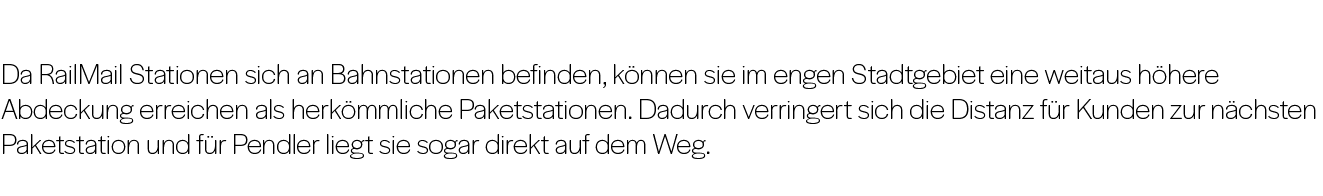
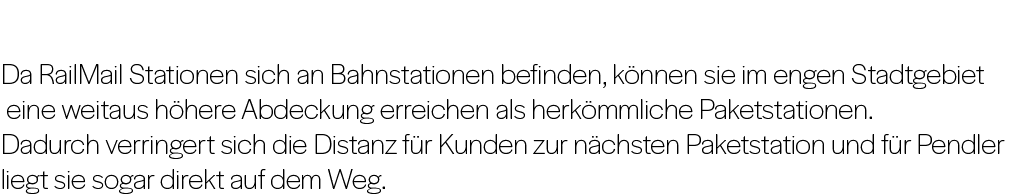
new

diff --git a/Doku.js b/Doku.js
@@ -39,6 +39,7 @@ let text15 = loadImage("Texte/Standortbestimmung.png");
 //Bilder
 let umschlagslager = loadImage("Bilder/Umschlagslagervonoben.png");
 let team = loadImage("Bilder/dasTeam.jpg");
+let railMail = loadImage("Bilder/Logo.png");
 let station1 =loadImage("Bilder/PaketstationAus.png");
 let station2 = loadImage("Bilder/PaketstationAktiv.png");
 let station3 = loadImage("Bilder/PaketstationFach.png");
@@ -117,7 +118,7 @@ let shadowNav = new Background(topShadow,0,windowWidth/16.5,windowWidth,windowWi
 let bkasten = new Background(buttonkasten,windowWidth/1.28,windowWidth/0.375,windowWidth/15,windowWidth/15);
 
 //Texte
-let einleitung = new Background(text1,windowWidth/2.6,windowWidth/3.48,windowWidth/4.465,windowWidth/6.4);
+let einleitung = new Background(text1,windowWidth/9,windowWidth/6.2,windowWidth/4.465,windowWidth/6.4);
 let problem = new Background(text2,windowWidth/9,windowWidth/1.4,windowWidth/2.954,windowWidth/6.4);
 let einPaketBestellen = new Background(text3,windowWidth/4,windowWidth/0.8,windowWidth/2.06,windowWidth/2.4);
 let Nachricht = new Background(text4,windowWidth/4.98,windowWidth/6,windowWidth/2.612,windowWidth/2.07);
@@ -133,12 +134,13 @@ var derZug = new Background(train,windowWidth/15.5,zugY,windowWidth/30.5,windowW
 
 let customer = new Background(text12,windowWidth/5.2,windowWidth/3.5,windowWidth/1.4,windowWidth/2.75);
 let endcustomer = new Background(text13,windowWidth/5.2,windowWidth/1.27,windowWidth/2.94,windowWidth/3.51);
-let ort = new Background(text14,windowWidth/5.2,windowWidth/0.76,windowWidth/1.45,windowWidth/9.8);
+let ort = new Background(text14,windowWidth/5.2,windowWidth/0.76,windowWidth/1.89,windowWidth/9.79);
 var dieStandortbestimmung = new Background(text15,windowWidth/3,windowWidth/0.308,windowWidth/2.9,windowWidth/2.66);
 
 //Bilder
 let umschlagslagerbild = new Background(umschlagslager, windowWidth/3.4,windowWidth/1.8,windowWidth/2.86,windowWidth/4.8);
-let dasTeam = new Background(team,windowWidth/9,windowWidth/3.5,windowWidth/4.27,windowWidth/6.4);
+let dasTeam = new Background(team,windowWidth/9,windowWidth/2.7,windowWidth/4.27,windowWidth/6.4);
+let ourLogo = new Background(railMail,windowWidth/2.6,windowWidth/2.85,windowWidth/5.63,windowWidth/4.78);
 let stationAus = new Background(station1,windowWidth/7,windowWidth/1.2,windowWidth/4.8,windowWidth/4.8);
 let stationAn = new Background(station2,windowWidth/7,windowWidth/1.2,windowWidth/4.8,windowWidth/4.8);
 let stationFach = new Background(station3,windowWidth/7,windowWidth/1.2,windowWidth/4.8,windowWidth/4.8);
@@ -272,6 +274,7 @@ function draw(){
     problem.display();
     //Schienen.display();
     dasTeam.display();
+    ourLogo.display()
     einPaketBestellen.display();
    
    
